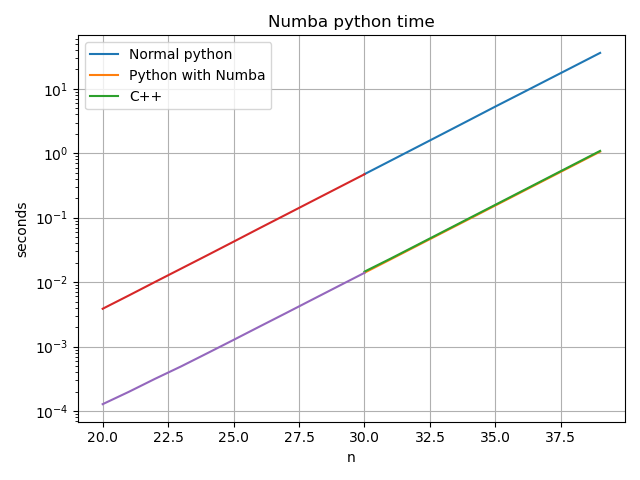
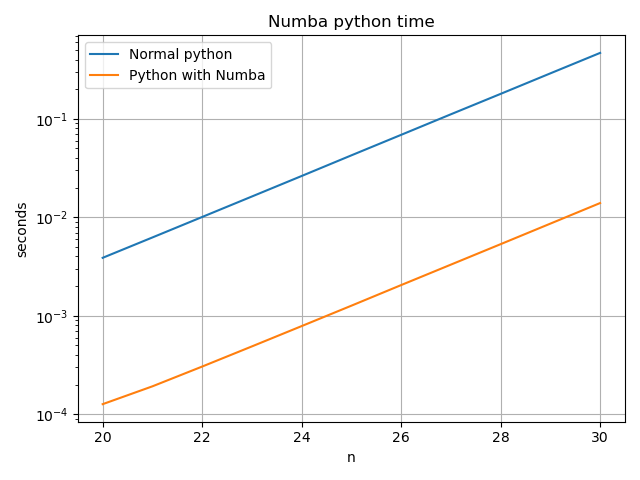
fixed plots

diff --git a/MA4/MA4_Files/MA4_2.py b/MA4/MA4_Files/MA4_2.py
@@ -63,6 +63,7 @@ def main():
 		end = pf()
 		cpp_time.append(end - start)
 
+	pp.figure(1)
 	for i, y in enumerate([py_time, py_numba_time, cpp_time]):
 		pp.xlabel("n")
 		pp.ylabel("seconds")
@@ -97,6 +98,7 @@ def main():
 		py_numba_time.append(end - start)
 	print("Done with numba timing")
 
+	pp.figure(2)
 	for i, y in enumerate([py_time, py_numba_time]):
 		pp.xlabel("n")
 		pp.ylabel("seconds")
@@ -111,11 +113,11 @@ def main():
 	pp.tight_layout()
 	pp.savefig(fname="timing20to30")
 
-	print("Now calculating fib(47) with python using numba")
-	print(fib_python_numba(47))
-	print("Now calculating fib(47) with c++")
-	f = Person(47)
-	print(f.fib())
+#	print("Now calculating fib(47) with python using numba")
+#	print(fib_python_numba(47))
+#	print("Now calculating fib(47) with c++")
+#	f = Person(47)
+#	print(f.fib())
 
 	'''
 	Output:
